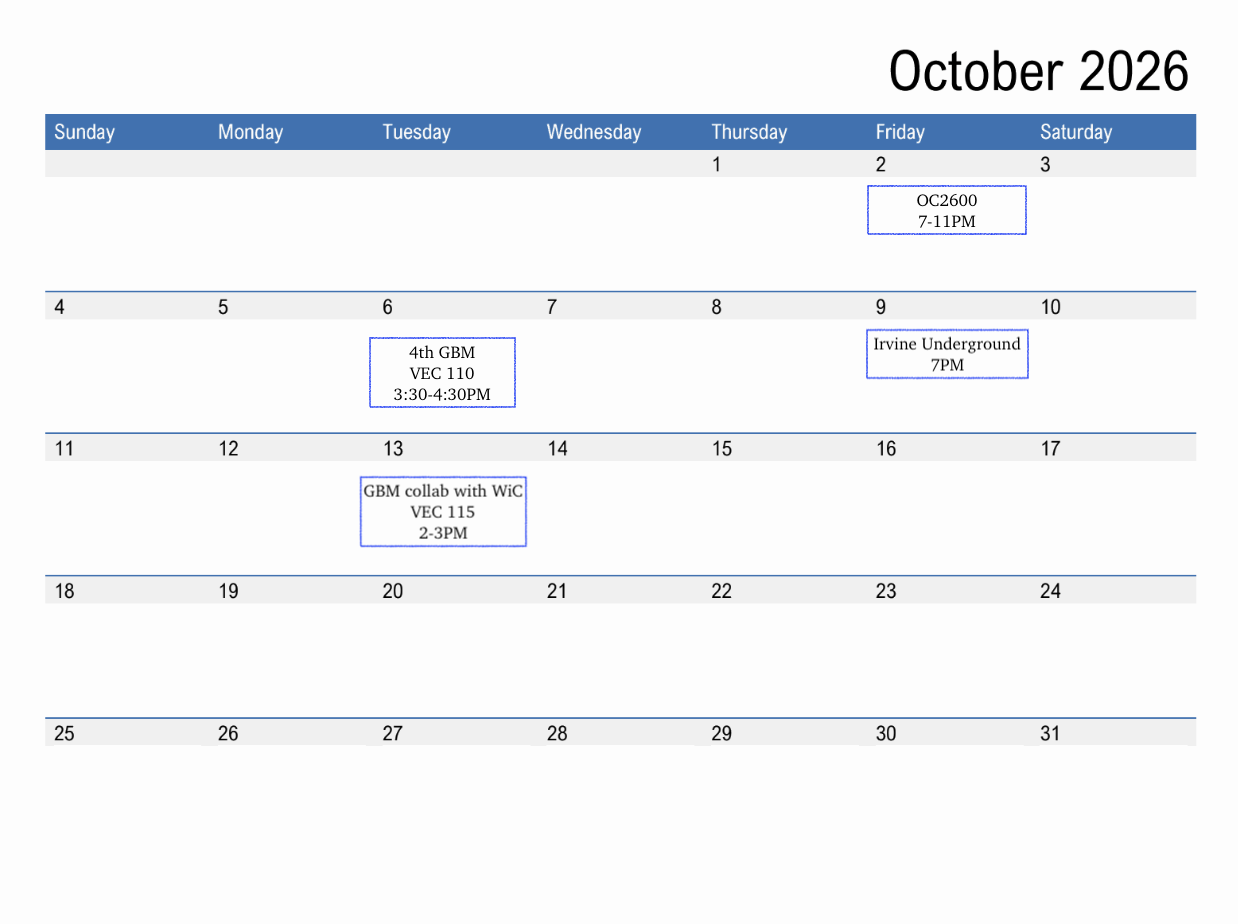
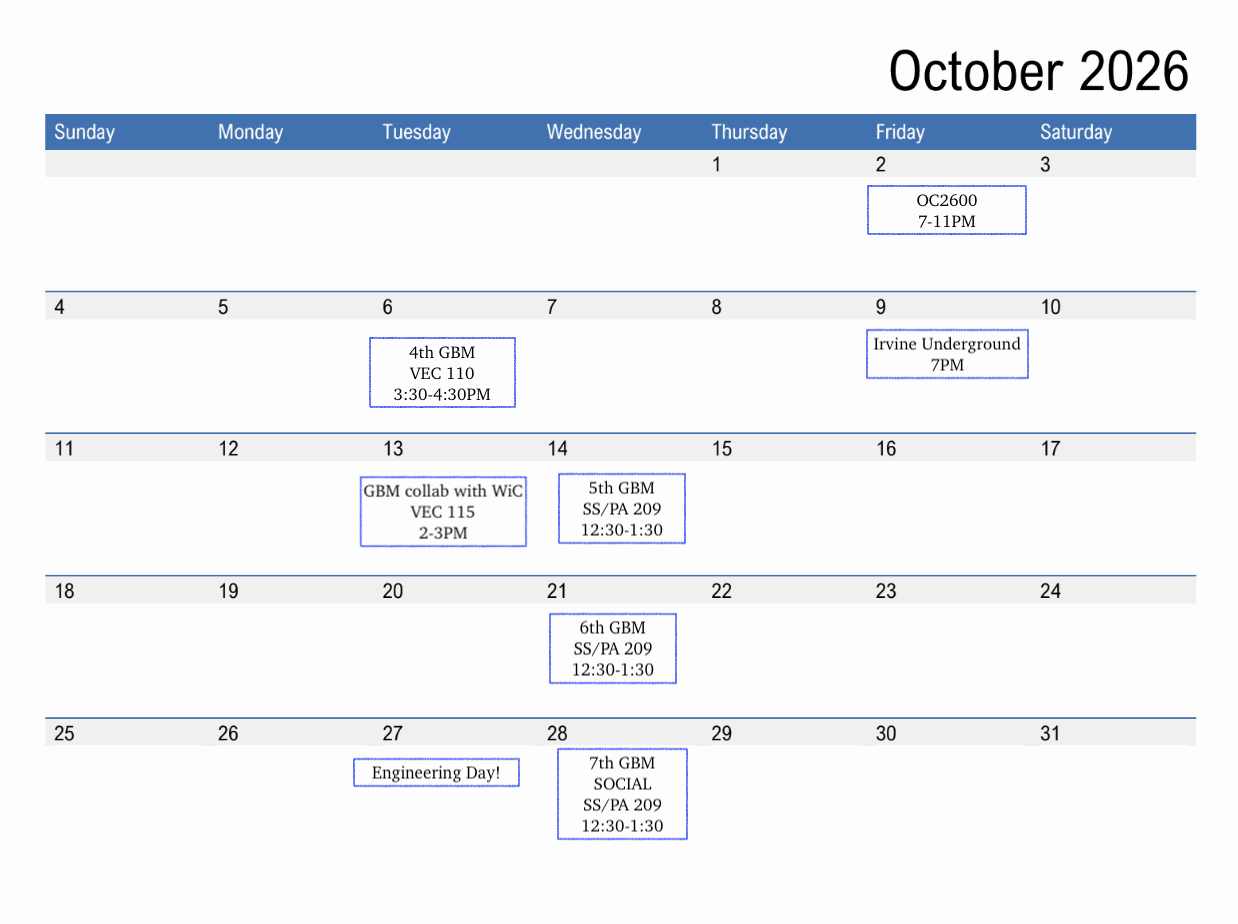
Update calendar images and add October-December events

diff --git a/src/components/events/events-data.ts b/src/components/events/events-data.ts
@@ -19,12 +19,147 @@ export const eventTags = [
 export const events: EventItem[] = [
   {
     slug: "general-body-meeting-5",
-    title: "General Body Meeting #5",
+    title: "Password Hashing Challenge w/ NCL Practice",
     description:
-      "Password Hashing Challenge w/ NCL Practice. Please bring your Linux installed beforehand!",
+      "Please bring your laptops with Kali Linux installed.",
     tags: ["Workshop"],
     date: "2026-10-14",
     time: "12:30 PM – 1:30 PM",
     location: "SS/PA 209",
+  },
+  {
+    slug: "oc2600-oct",
+    title: "OC2600",
+    description: "",
+    tags: ["Social"],
+    date: "2026-10-02",
+    time: "7:00 PM – 11:00 PM",
+    location: "",
+  },
+  {
+    slug: "general-body-meeting-4",
+    title: "Virtualization and Linux",
+    description: "Installing Kali Linux on your computers. Bring your own laptops.",
+    tags: [],
+    date: "2026-10-06",
+    time: "3:30 PM – 4:30 PM",
+    location: "VEC 110",
+  },
+  {
+    slug: "irvine-underground-oct",
+    title: "Irvine Underground",
+    description: "",
+    tags: ["Social"],
+    date: "2026-10-09",
+    time: "7:00 PM",
+    location: "",
+  },
+  {
+    slug: "gbm-collab-wic",
+    title: "Phishermen vs Pirates: A Social Engineering Showdown",
+    description: "Team up to catch real-world phishing attacks and craft your own. Learn the tricks attackers use.",
+    tags: [],
+    date: "2026-10-13",
+    time: "2:00 PM – 3:00 PM",
+    location: "VEC 115",
+  },
+  {
+    slug: "general-body-meeting-6",
+    title: "Web Security Fundamentals: OWASP Top 10",
+    description: "Learn web exploitation! Please bring your own computer.",
+    tags: [],
+    date: "2026-10-21",
+    time: "12:30 PM – 1:30 PM",
+    location: "SS/PA 209",
+  },
+  {
+    slug: "engineering-day",
+    title: "Engineering Day",
+    description: "Stop by our booth and get to know the CSULBreach.",
+    tags: [],
+    date: "2026-10-27",
+    time: "",
+    location: "",
+  },
+  {
+    slug: "general-body-meeting-7",
+    title: "Social GBM: Movie Night",
+    description: "Stop by to watch Monster House and eat some candy!",
+    tags: ["Social"],
+    date: "2026-10-28",
+    time: "12:30 PM – 1:30 PM",
+    location: "SS/PA 209",
+  },
+  {
+    slug: "general-body-meeting-8",
+    title: "Prompting Best Practices and How Prompt Injections Work",
+    description: "Bring your laptops as we will be having a hands-on activity as well.",
+    tags: [],
+    date: "2026-11-04",
+    time: "12:30 PM – 1:30 PM",
+    location: "SS/PA 209",
+  },
+  {
+    slug: "oc2600-nov",
+    title: "OC2600",
+    description: "",
+    tags: ["Social"],
+    date: "2026-11-06",
+    time: "7:00 PM – 11:00 PM",
+    location: "",
+  },
+  {
+    slug: "collab-gbm-cob-140a",
+    title: "NCL Reflections and Lessons Learned",
+    description: "Reviewing NCL scores. Please bring your own computer!",
+    tags: [],
+    date: "2026-11-10",
+    time: "2:00 PM – 3:30 PM",
+    location: "COB 140A",
+  },
+  {
+    slug: "general-body-meeting-9-nov-10",
+    title: "Prompting Best Practices and How Prompt Injections Work",
+    description: "Bring your laptops as we will be having a hands-on activity as well.",
+    tags: [],
+    date: "2026-11-10",
+    time: "3:30 PM – 4:30 PM",
+    location: "VEC 110",
+  },
+  {
+    slug: "irvine-underground-nov",
+    title: "Irvine Underground",
+    description: "",
+    tags: ["Social"],
+    date: "2026-11-13",
+    time: "7:00 PM",
+    location: "",
+  },
+  {
+    slug: "general-body-meeting-10",
+    title: "Alumni Spotlight Panel",
+    description: "Please prepare some questions for our alumni.",
+    tags: [],
+    date: "2026-11-18",
+    time: "3:30 PM – 4:30 PM",
+    location: "VEC 110",
+  },
+  {
+    slug: "oc2600-dec",
+    title: "OC2600",
+    description: "",
+    tags: ["Social"],
+    date: "2026-12-04",
+    time: "7:00 PM – 11:00 PM",
+    location: "",
+  },
+  {
+    slug: "irvine-underground-dec",
+    title: "Irvine Underground",
+    description: "",
+    tags: ["Social"],
+    date: "2026-12-11",
+    time: "7:00 PM",
+    location: "",
   },
 ];

diff --git a/src/components/events/EventsPageClient.tsx b/src/components/events/EventsPageClient.tsx
@@ -131,9 +131,11 @@ export function EventsPageClient() {
                 <h2 className="text-2xl font-semibold tracking-tight midnight:text-[#6A0DAD]">
                   {event.title}
                 </h2>
-                <p className="mt-3 max-w-2xl text-base text-muted-foreground midnight:text-[#c3c8f5]">
-                  {event.description}
-                </p>
+                {event.description && (
+                  <p className="mt-3 max-w-2xl text-base text-muted-foreground midnight:text-[#c3c8f5]">
+                    {event.description}
+                  </p>
+                )}
     
                 <div className="mt-4 flex flex-wrap gap-2">
                   {event.tags.map((tag) => (
@@ -151,14 +153,18 @@ export function EventsPageClient() {
                     <Calendar className="size-4" />
                     {formatDate(event.date)}
                   </span>
-                  <span className="flex items-center gap-1.5">
-                    <Clock className="size-4" />
-                    {event.time}
-                  </span>
-                  <span className="flex items-center gap-1.5">
-                    <MapPin className="size-4" />
-                    {event.location}
-                  </span>
+                  {event.time && (
+                    <span className="flex items-center gap-1.5">
+                      <Clock className="size-4" />
+                      {event.time}
+                    </span>
+                  )}
+                  {event.location && (
+                    <span className="flex items-center gap-1.5">
+                      <MapPin className="size-4" />
+                      {event.location}
+                    </span>
+                  )}
                 </div>
               </div>
             </Fragment>
